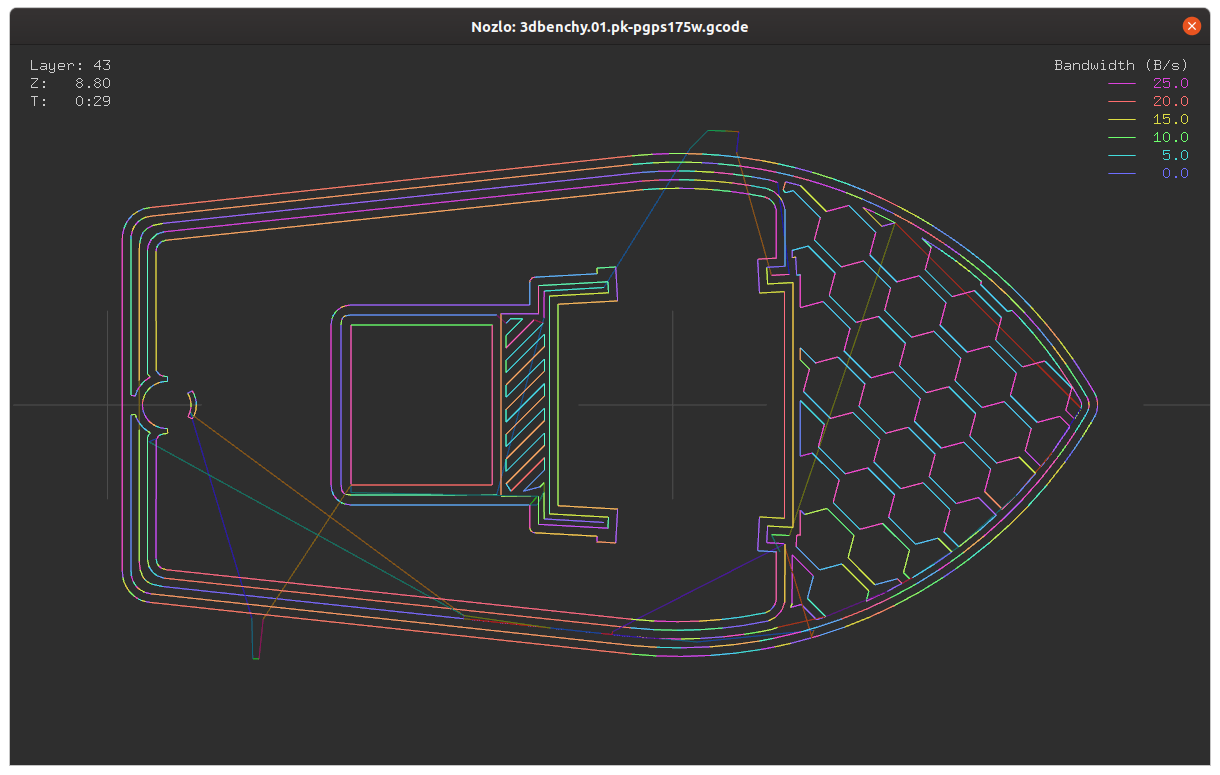
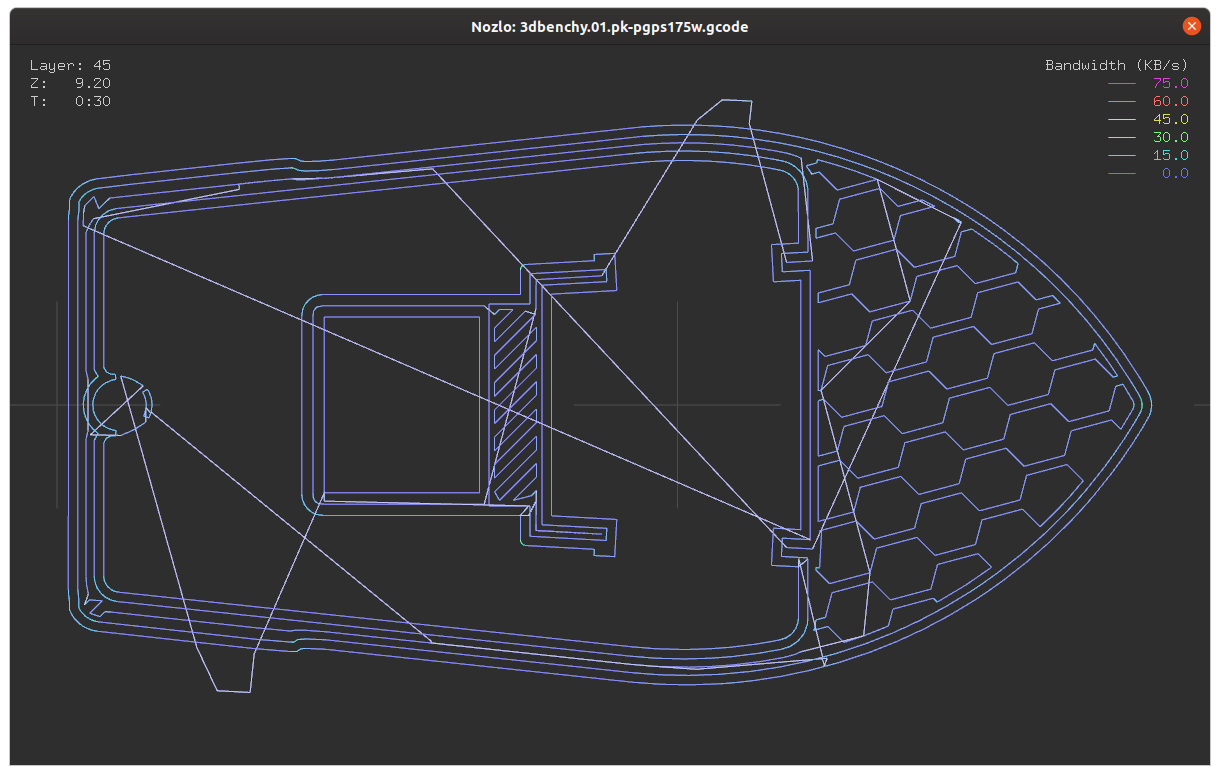
Load and store all channel data on model load. Only update color buffer model segment. Fix buffer reallocation behaviour. Use a LUT to speed up heatmap color function. Fix bandwidth calculation. Store bandwidth in KB/s.

diff --git a/nozlo/nozlo.py b/nozlo/nozlo.py
@@ -32,7 +32,7 @@ import yaml
 
 from nozlo.parser import \
     ParserVersionException, \
-    Parser, Model, Layer, Bbox
+    Parser, Model, Bbox
 
 
 
@@ -44,6 +44,7 @@ UPDATE_DELAY_SECONDS = 1
 
 
 POSITION_VECTOR_SIZE = 3
+VERTEX_SIZE_BYTES = 4
 
 CHANNELS = {
     "feedrate": {
@@ -51,8 +52,8 @@ CHANNELS = {
         "increment": 50,
     },
     "bandwidth": {
-        "label": "Bandwidth (B/s)",
-        "increment": 5,
+        "label": "Bandwidth (KB/s)",
+        "increment": 25,
     },
     "fan_speed": {
         "label": "Fan speed (%)",
@@ -88,6 +89,7 @@ class Nozlo():
     default_yaw = 45
     default_pitch = 30
     scroll_factor = 1 / 0.9
+    heat_lut_size = 256
 
     channels = CHANNELS
 
@@ -133,6 +135,16 @@ class Nozlo():
         self.state = None
         self.last_save_state = None
         self.last_update_time = None
+
+        self.model_channel_max = {}
+        self.model_channel_buffer = {}
+
+        self.heat_lut_model = []
+        self.heat_lut_move = []
+        for i in range(self.heat_lut_size):
+            value = i / (self.heat_lut_size - 1)
+            self.heat_lut_model.append(self.heat_color(value, self.model_color_value))
+            self.heat_lut_move.append(self.heat_color(value, self.move_color_value))
 
         # Reference
 
@@ -263,30 +275,34 @@ void main() {
         return color
 
 
-    def max_channel_value(self):
-        max_value = getattr(self.model.max_segment, self.channel)
-        increment = self.channels[self.channel]["increment"]
+    def max_channel_value(self, channel):
+        max_value = getattr(self.model.max_segment, channel)
+        increment = self.channels[channel]["increment"]
         return math.ceil(max_value / increment) * increment
 
 
-    def add_lines_model(self, line_p, line_c):
+    def add_lines_model(self, line_p):
         self.model_layer_chunks = []
 
-        max_value = self.max_channel_value()
+        for channel in self.channels:
+            self.model_channel_max[channel] = self.max_channel_value(channel)
+            self.model_channel_buffer[channel] = []
 
+        profile_start = time.time()
         for layer in self.model:
             layer_chunk_start = self.line_buffer_length
-            for segment in layer.segments:
+            for segment in layer:
                 line_p += [segment.start[0], segment.start[1], segment.start[2]]
                 line_p += [segment.end[0], segment.end[1], segment.end[2]]
 
-                color = self.heat_color(
-                    getattr(segment, self.channel) / max_value,
-                    value=self.model_color_value if segment.width else self.move_color_value
-                )
-
-                line_c += color
-                line_c += color
+                for channel in self.channels:
+                    value_float = getattr(segment, channel) / self.model_channel_max[channel]
+                    value_index = math.floor(value_float * (self.heat_lut_size - 1))
+                    color = (
+                        self.heat_lut_model[value_index] if segment.width else
+                        self.heat_lut_move[value_index])
+                    self.model_channel_buffer[channel] += color
+                    self.model_channel_buffer[channel] += color
 
                 self.line_buffer_length += 2
 
@@ -295,7 +311,27 @@ void main() {
                 self.line_buffer_length
             ])
 
+        LOG.debug(f"add_lines_model iterate {time.time() - profile_start:0.2f}")
+
         self.update_model_draw()
+
+
+    def update_model_color(self):
+        line_c = []
+
+        profile_start = time.time()
+        line_c = self.model_channel_buffer[self.channel]
+        LOG.debug(f"update model color iterate {time.time() - profile_start:0.2f}")
+
+        GL.glBindBuffer(GL.GL_ARRAY_BUFFER, self.line_buffer_color)
+        profile_start = time.time()
+        GL.glBufferSubData(
+            GL.GL_ARRAY_BUFFER,
+            self.model_layer_chunks[0][0] * POSITION_VECTOR_SIZE * VERTEX_SIZE_BYTES,
+            np.array(line_c, dtype='float32'),
+        )
+        LOG.debug(
+            f"update model color GL.glBufferSubData {time.time() - profile_start:0.2f}")
 
 
     def init_line_buffer(self):
@@ -313,24 +349,31 @@ void main() {
         self.line_buffer_length = 0
 
         self.add_lines_reference(line_p, line_c)
-        self.add_lines_model(line_p, line_c)
+
+        self.add_lines_model(line_p)
+        line_c += self.model_channel_buffer[self.channel]
 
         GL.glBindVertexArray(self.line_array)
 
         GL.glBindBuffer(GL.GL_ARRAY_BUFFER, self.line_buffer_position)
+        profile_start = time.time()
         GL.glBufferData(
             GL.GL_ARRAY_BUFFER,
             np.array(line_p, dtype='float32'),
             GL.GL_STATIC_DRAW
         )
+        LOG.debug(f"load_line_buffer GL.glBufferData {time.time() - profile_start:0.2f}")
+
         GL.glVertexAttribPointer(0, 3, GL.GL_FLOAT, GL.GL_FALSE, 0, None)
 
         GL.glBindBuffer(GL.GL_ARRAY_BUFFER, self.line_buffer_color)
+        profile_start = time.time()
         GL.glBufferData(
             GL.GL_ARRAY_BUFFER,
             np.array(line_c, dtype='float32'),
             GL.GL_STATIC_DRAW
         )
+        LOG.debug(f"load_line_buffer GL.glBufferData {time.time() - profile_start:0.2f}")
         GL.glVertexAttribPointer(1, 3, GL.GL_FLOAT, GL.GL_FALSE, 0, None)
 
         duration = time.time() - start
@@ -517,12 +560,12 @@ void main() {
         x2 = self.width - margin - cx * 6.5
 
         step = 6
-        label = self.channels[self.channel]["label"].rjust(15)
-        max_value = self.max_channel_value()
+        label = self.channels[self.channel]["label"].rjust(16)
+        max_value = self.model_channel_max[self.channel]
 
         GL.glLineWidth(1.0)
         GL.glColor4f(0.8, 0.8, 0.8, 1)
-        x = self.width - margin - cx * 15.5
+        x = self.width - margin - cx * 16.5
         self.text(x, y, label)
         x = self.width - margin - cx * 9.5
 
@@ -590,11 +633,10 @@ void main() {
 
 
     def set_channel(self, channel):
-        if self.channel != channel:
-            self.channel = channel
-            self.show_loading_screen()
-            self.init_line_buffer()
-            self.load_line_buffer()
+        # if self.channel != channel:
+        self.channel = channel
+        self.show_loading_screen()
+        self.update_model_color()
 
 
     def keyboard(self, key, x, y):

diff --git a/nozlo/parser.py b/nozlo/parser.py
@@ -24,7 +24,7 @@ import numpy as np
 LOG = logging.getLogger("parser")
 
 FEEDRATE_UNIT = 60  # G-code feedrate is in units per minute
-
+MIN_DURATION = 0.001
 
 
 class ParserVersionException(Exception):
@@ -237,7 +237,7 @@ class Print:
                 max_tool_temp = max(max_tool_temp, segment.tool_temp)
                 max_bed_temp = max(max_bed_temp, segment.bed_temp)
                 max_fan_speed = max(max_fan_speed, segment.fan_speed)
-                max_bandwidth = max(max_width, segment.bandwidth)
+                max_bandwidth = max(max_bandwidth, segment.bandwidth)
 
             total_duration += segment.duration
 
@@ -312,6 +312,19 @@ class Layer(Print):
         super().__init__()
 
 
+    def __len__(self):
+        return len(self.segments)
+
+
+    def __iter__(self):
+        for segment in self.segments:
+            yield segment
+
+
+    def __getitem__(self, key):
+        return self.segments[key]
+
+
     def iter_segments(self):
         for segment in self.segments:
             # Extrusion ends in build volume:
@@ -364,7 +377,7 @@ class Model(Print):
     G-code model
     """
 
-    version = 2
+    version = 3
     struct_format = "II"
 
 
@@ -550,8 +563,15 @@ class Parser():
                 distance_e = end_e - start_e
                 width = distance_e / distance_p if distance_p else 0
 
-                duration = distance_p / self.feedrate if self.feedrate else 0
-                bandwidth = len(line) / duration if duration else 0
+                if distance_p:
+                    duration = distance_p / self.feedrate if self.feedrate else 0
+                elif distance_e:
+                    duration = distance_e / self.feedrate if self.feedrate else 0
+                else:
+                    duration = 0
+                if duration < MIN_DURATION:
+                    duration = 0
+                bandwidth = len(line) / duration / 1024 if duration else 0
 
                 model.layers[-1].segments.append(Segment(
                     start=start_p,
